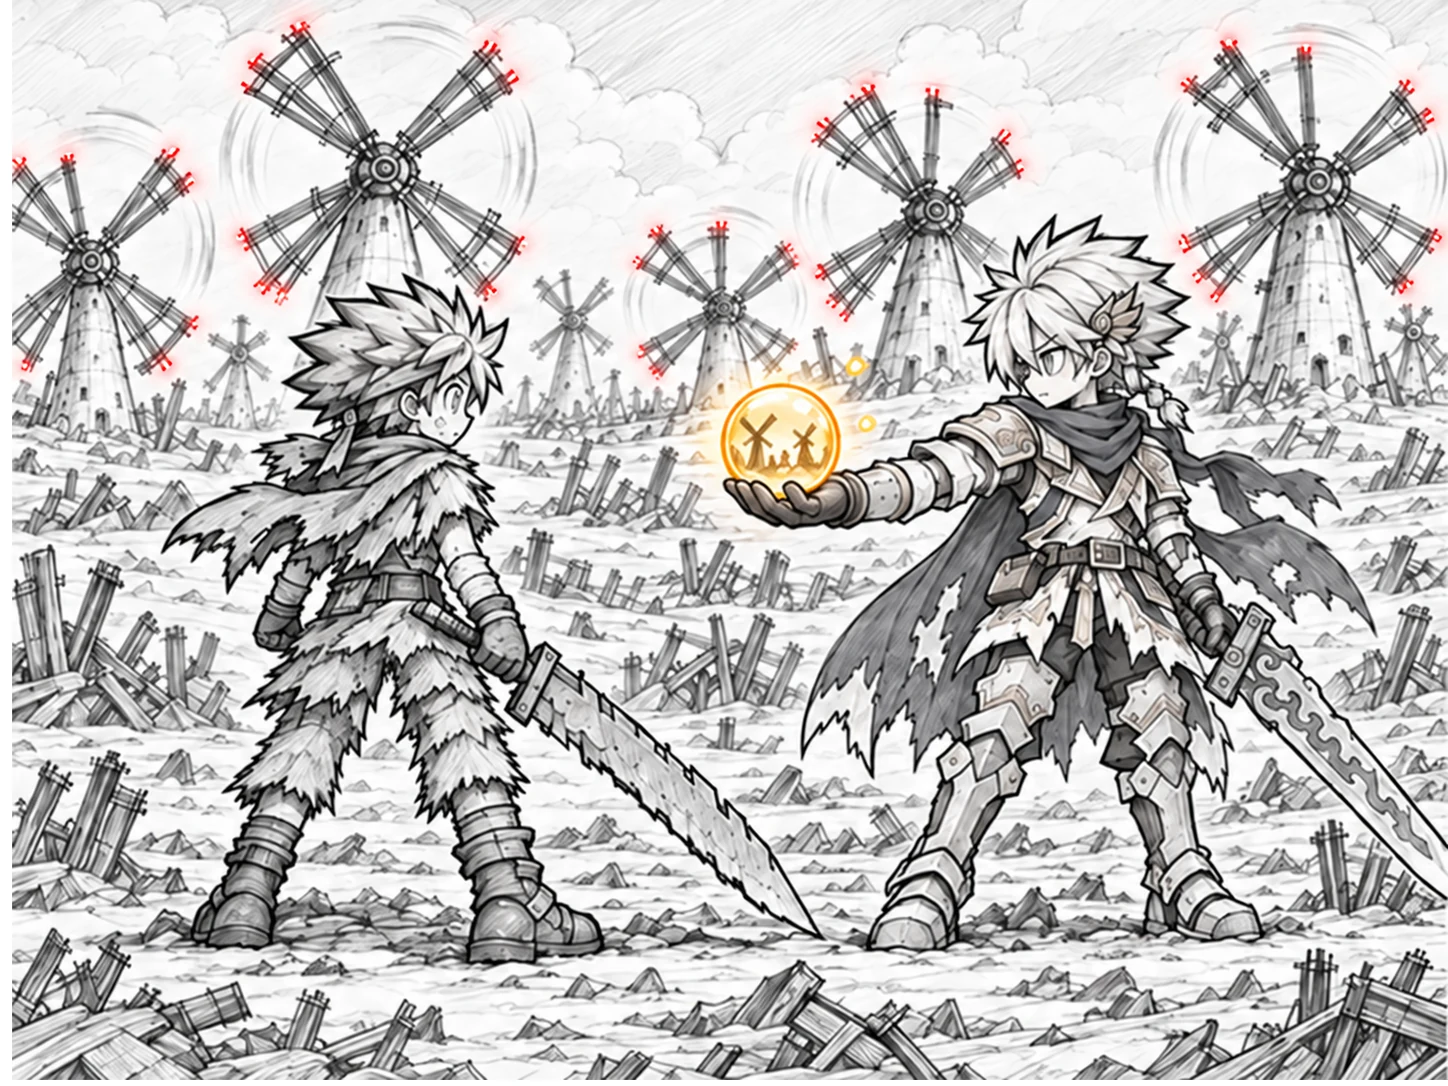
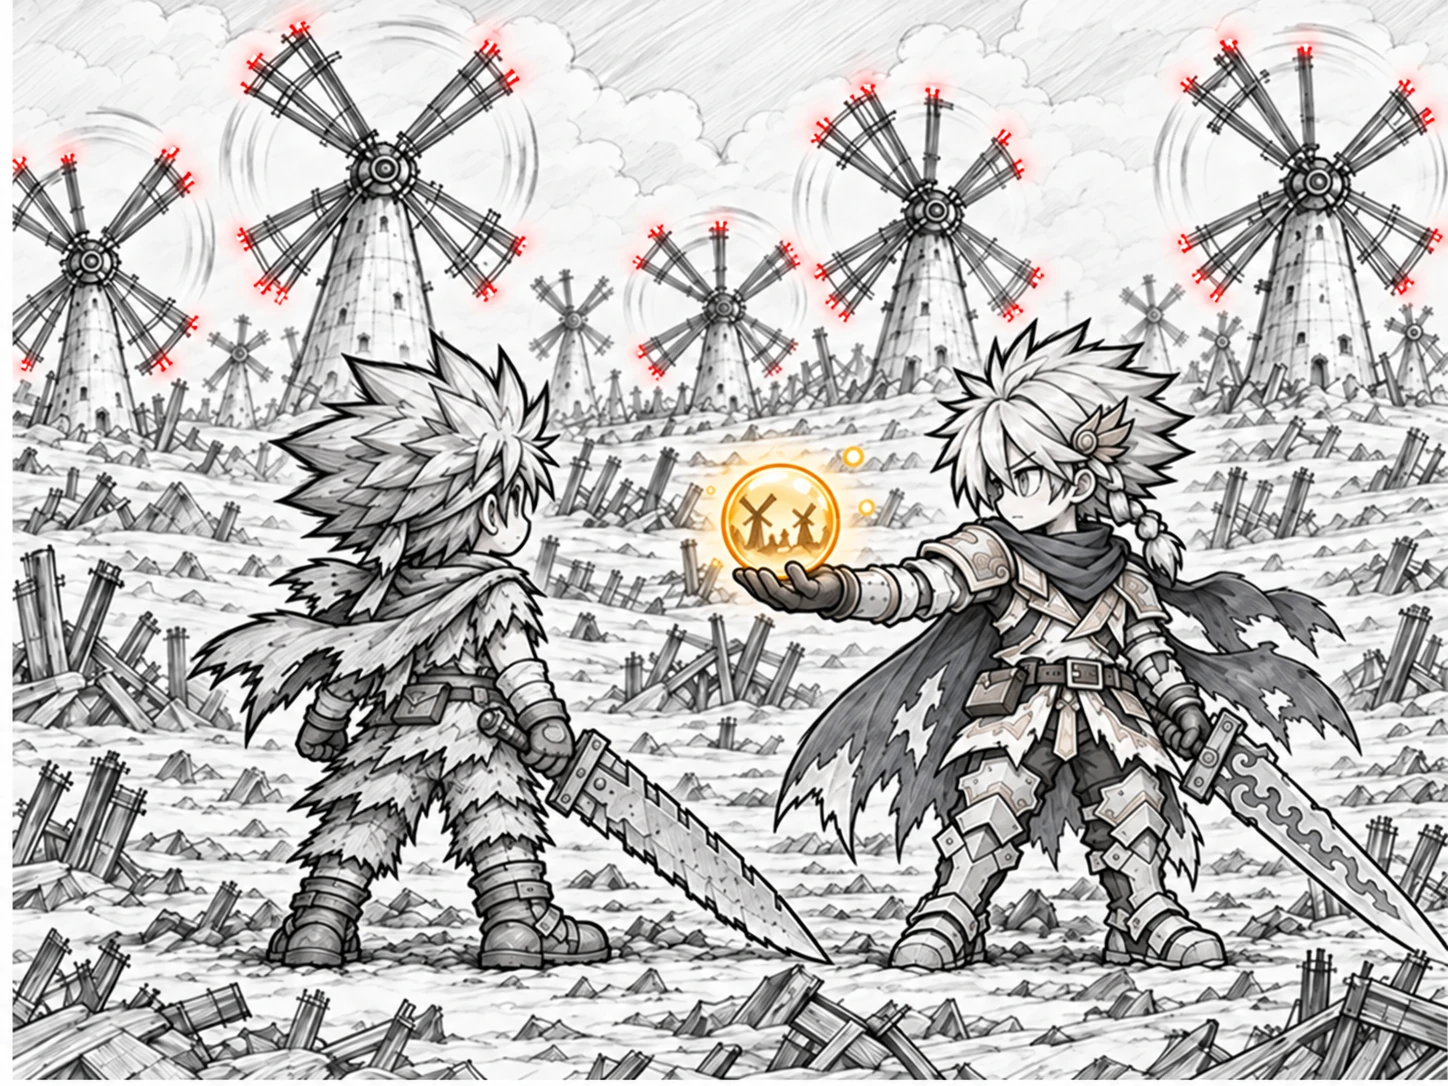
반전 3 최종 그림 (캐릭터 비율 수정본) + 구슬 · 붉은 날개 끝 · 흔들림 위치를 새 그림에 맞춤
Claude-Session: https://claude.ai/code/session_01UsiBrPk9kwis6B71C6gGhW

diff --git a/assets/art/story/live/scenes.js b/assets/art/story/live/scenes.js
@@ -24,17 +24,59 @@ reveal_02:{img:'../reveal_02.webp',cam:{z:1.05,x:45,y:58},
   fx:[{i:'dot_g.webp',x:640,y:480,w:360,k:'pulse',v:{d:'3.2s',lo:.15,hi:.45}}],
   emit:[{i:['r2_f0.webp','r2_f1.webp','r2_f2.webp','r2_f3.webp','r2_f5.webp','r2_f6.webp','r2_f8.webp'],n:16,a:[720,300,980,740],w:[22,52],k:'rise',d:[3.5,6],dy:-260,dx:50,hi:.9},
         {i:['dot_g.webp'],n:14,a:[700,300,1000,760],w:[6,14],k:'rise',d:[3,5],dy:-200}]},
-reveal_03:{img:'../reveal_03.webp',cam:{z:1.04,x:52,y:42},
-  move:[{t:'breathe',x:420,y:650,rx:240,ry:340,an:940,a:.004,f:.25},
-        {t:'hair',x:400,y:350,rx:150,ry:110,an:430,a:2.5,f:.33},
-        {t:'flag',x:260,y:540,rx:130,ry:110,an:330,a:3,f:.4},
-        {t:'breathe',x:1050,y:700,rx:210,ry:290,an:950,a:.004,f:.22,ph:1},
-        {t:'hair',x:1080,y:330,rx:150,ry:120,an:410,a:2.5,f:.3,ph:1},
-        {t:'cloth',x:880,y:650,rx:130,ry:200,an:470,a:3,f:.33,ph:.5}],
-  fx:[{i:'r3_f0.webp',x:712,y:378,w:170,k:'pulse',v:{d:'2s',lo:.25,hi:.9}},
-      ...[[253,60],[493,60],[240,240],[520,240],[20,167],[167,173],[27,353],[167,360],[727,227],[827,53],[1020,167],[640,353],[1180,80],[1400,80],[1187,240],[1407,280]]
-        .map(([x,y],i)=>({i:'r3_f'+(1+i)+'.png',x:x-22,y:y-22,w:44,k:'flick',v:{d:(1.3+(i%5)*.37)+'s',dl:(-i*.41)+'s',lo:.15}}))],
-  emit:[{i:['dot_g.webp'],n:8,a:[700,360,860,520],w:[5,11],k:'rise',d:[2,3.5],dy:-90,dx:25}]},
+reveal_03:{img:'../reveal_03.webp',cam:{z:1.04,x:53,y:48},
+  move:[{t:'breathe',x:450,y:650,rx:230,ry:330,an:960,a:.004,f:.25},
+        {t:'hair',x:430,y:420,rx:160,ry:120,an:520,a:2.5,f:.33},
+        {t:'flag',x:250,y:640,rx:120,ry:100,an:330,a:3,f:.4},
+        {t:'breathe',x:1080,y:680,rx:230,ry:300,an:960,a:.004,f:.22,ph:1},
+        {t:'hair',x:1060,y:400,rx:150,ry:110,an:490,a:2.5,f:.3,ph:1},
+        {t:'flag',x:1290,y:680,rx:110,ry:120,an:1180,a:3,f:.33,ph:.5}],
+  fx:[{i:'r3_f0.webp',x:729,y:457,w:160,k:'pulse',v:{d:'2s',lo:.25,hi:.9}},
+      {i:'r3_f1.webp',x:277,y:6,w:44,k:'flick',v:{d:'1.30s',dl:'0.00s',lo:.15}},
+      {i:'r3_f2.webp',x:468,y:25,w:44,k:'flick',v:{d:'1.67s',dl:'-0.41s',lo:.15}},
+      {i:'r3_f3.webp',x:1207,y:23,w:44,k:'flick',v:{d:'2.04s',dl:'-0.82s',lo:.15}},
+      {i:'r3_f4.webp',x:1282,y:29,w:44,k:'flick',v:{d:'2.41s',dl:'-1.23s',lo:.15}},
+      {i:'r3_f5.webp',x:233,y:39,w:44,k:'flick',v:{d:'2.78s',dl:'-1.64s',lo:.15}},
+      {i:'r3_f6.webp',x:490,y:56,w:44,k:'flick',v:{d:'1.30s',dl:'-2.05s',lo:.15}},
+      {i:'r3_f7.webp',x:1165,y:62,w:44,k:'flick',v:{d:'1.67s',dl:'-2.46s',lo:.15}},
+      {i:'r3_f8.webp',x:1385,y:65,w:44,k:'flick',v:{d:'2.04s',dl:'-2.87s',lo:.15}},
+      {i:'r3_f9.webp',x:224,y:64,w:44,k:'flick',v:{d:'2.41s',dl:'-3.28s',lo:.15}},
+      {i:'r3_f10.webp',x:840,y:70,w:44,k:'flick',v:{d:'2.78s',dl:'-3.69s',lo:.15}},
+      {i:'r3_f11.webp',x:910,y:71,w:44,k:'flick',v:{d:'1.30s',dl:'-4.10s',lo:.15}},
+      {i:'r3_f12.webp',x:1406,y:96,w:44,k:'flick',v:{d:'1.67s',dl:'-4.51s',lo:.15}},
+      {i:'r3_f13.webp',x:799,y:108,w:44,k:'flick',v:{d:'2.04s',dl:'-4.92s',lo:.15}},
+      {i:'r3_f14.webp',x:982,y:115,w:44,k:'flick',v:{d:'2.41s',dl:'-5.33s',lo:.15}},
+      {i:'r3_f15.webp',x:148,y:133,w:44,k:'flick',v:{d:'2.78s',dl:'-5.74s',lo:.15}},
+      {i:'r3_f16.webp',x:45,y:136,w:44,k:'flick',v:{d:'1.30s',dl:'-6.15s',lo:.15}},
+      {i:'r3_f17.webp',x:-3,y:142,w:44,k:'flick',v:{d:'1.67s',dl:'-6.56s',lo:.15}},
+      {i:'r3_f18.webp',x:996,y:146,w:44,k:'flick',v:{d:'2.04s',dl:'-6.97s',lo:.15}},
+      {i:'r3_f19.webp',x:166,y:161,w:44,k:'flick',v:{d:'2.41s',dl:'-7.38s',lo:.15}},
+      {i:'r3_f20.webp',x:697,y:204,w:44,k:'flick',v:{d:'2.78s',dl:'-7.79s',lo:.15}},
+      {i:'r3_f21.webp',x:633,y:209,w:44,k:'flick',v:{d:'1.30s',dl:'-8.20s',lo:.15}},
+      {i:'r3_f22.webp',x:222,y:217,w:44,k:'flick',v:{d:'1.67s',dl:'-8.61s',lo:.15}},
+      {i:'r3_f23.webp',x:1413,y:218,w:44,k:'flick',v:{d:'2.04s',dl:'-9.02s',lo:.15}},
+      {i:'r3_f24.webp',x:1163,y:221,w:44,k:'flick',v:{d:'2.41s',dl:'-9.43s',lo:.15}},
+      {i:'r3_f25.webp',x:498,y:223,w:44,k:'flick',v:{d:'2.78s',dl:'-9.84s',lo:.15}},
+      {i:'r3_f26.webp',x:769,y:232,w:44,k:'flick',v:{d:'1.30s',dl:'-10.25s',lo:.15}},
+      {i:'r3_f27.webp',x:616,y:240,w:44,k:'flick',v:{d:'1.67s',dl:'-10.66s',lo:.15}},
+      {i:'r3_f28.webp',x:798,y:250,w:44,k:'flick',v:{d:'2.04s',dl:'-11.07s',lo:.15}},
+      {i:'r3_f29.webp',x:1015,y:255,w:44,k:'flick',v:{d:'2.41s',dl:'-11.48s',lo:.15}},
+      {i:'r3_f30.webp',x:1177,y:254,w:44,k:'flick',v:{d:'2.78s',dl:'-11.89s',lo:.15}},
+      {i:'r3_f31.webp',x:1383,y:264,w:44,k:'flick',v:{d:'1.30s',dl:'-12.30s',lo:.15}},
+      {i:'r3_f32.webp',x:249,y:269,w:44,k:'flick',v:{d:'1.67s',dl:'-12.71s',lo:.15}},
+      {i:'r3_f33.webp',x:466,y:270,w:44,k:'flick',v:{d:'2.04s',dl:'-13.12s',lo:.15}},
+      {i:'r3_f34.webp',x:1195,y:272,w:44,k:'flick',v:{d:'2.41s',dl:'-13.53s',lo:.15}},
+      {i:'r3_f1.webp',x:810,y:280,w:44,k:'flick',v:{d:'2.78s',dl:'-13.94s',lo:.15}},
+      {i:'r3_f2.webp',x:991,y:290,w:44,k:'flick',v:{d:'1.30s',dl:'-14.35s',lo:.15}},
+      {i:'r3_f3.webp',x:822,y:294,w:44,k:'flick',v:{d:'1.67s',dl:'-14.76s',lo:.15}},
+      {i:'r3_f4.webp',x:171,y:301,w:44,k:'flick',v:{d:'2.04s',dl:'-15.17s',lo:.15}},
+      {i:'r3_f5.webp',x:620,y:329,w:44,k:'flick',v:{d:'2.41s',dl:'-15.58s',lo:.15}},
+      {i:'r3_f6.webp',x:772,y:326,w:44,k:'flick',v:{d:'2.78s',dl:'-15.99s',lo:.15}},
+      {i:'r3_f7.webp',x:141,y:341,w:44,k:'flick',v:{d:'1.30s',dl:'-16.40s',lo:.15}},
+      {i:'r3_f8.webp',x:4,y:342,w:44,k:'flick',v:{d:'1.67s',dl:'-16.81s',lo:.15}},
+      {i:'r3_f9.webp',x:635,y:350,w:44,k:'flick',v:{d:'2.04s',dl:'-17.22s',lo:.15}},
+      {i:'r3_f10.webp',x:753,y:349,w:44,k:'flick',v:{d:'2.41s',dl:'-17.63s',lo:.15}}],
+  emit:[{i:['dot_g.webp'],n:8,a:[717,437,857,577],w:[5,11],k:'rise',d:[2,3.5],dy:-90,dx:25}]},
 reveal_04:{img:'../reveal_04.webp',cam:{z:1.06,x:50,y:30,d:10},shake:1.2,
   move:[{t:'breathe',x:720,y:520,rx:400,ry:480,an:950,a:.004,f:.18},
         {t:'breathe',x:640,y:900,rx:230,ry:180,an:1010,a:.006,f:.3},
